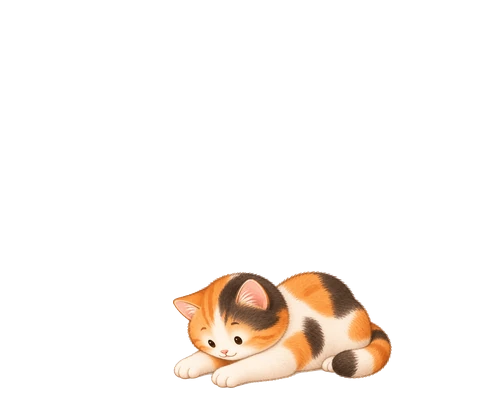
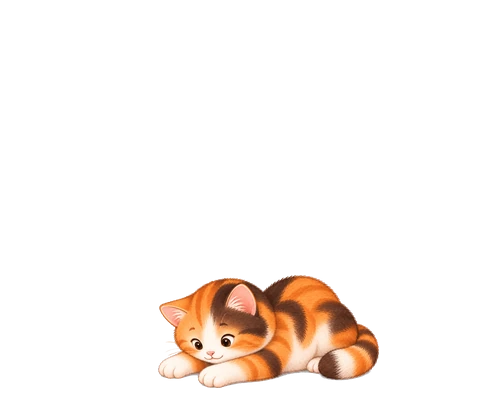
Wire in Zayit the tuxedo cat, refresh lie-pose art for six cats
Zayit gets a CATS entry and selfie-pose count now that her 8-pose set
and 2 polaroid selfies are processed. dvash/kokhav/rimon/sheleg/shoko/
tapuz get updated lie-pose art from new raw drops. Kafe's selfie art
landed too but she has no cat-pose art yet, so she's not CATS-wired.

Claude-Session: https://claude.ai/code/session_01E7v64VRdhvH8oCgXhRmXMK

Changed region(s): [[0.3125, 0.66, 0.8125, 0.99]]

diff --git a/index.html b/index.html
@@ -547,6 +547,7 @@
     shoko:  { tr: 'Shoko', en: 'chocolate milk', rarity: .9, likes: { ball: 3, box: 2 }, gift: [2, 3] },
     rimon:  { tr: 'Rimon', en: 'pomegranate', rarity: .5, likes: { yarn: 2, basket: 2 }, gift: [3, 5] },
     kokhav: { tr: 'Kokhav', en: 'star', rarity: .25, likes: { tent: 4 }, gift: [5, 8] },
+    zayit:  { tr: 'Zayit', en: 'olive', rarity: .85, likes: { basket: 3, ball: 2 }, gift: [1, 3] },
     // only-gated rare cats: just one pose of art so far (sit), so `only` keeps them off every other
     // item instead of getting the 0.4 default-like chance at e.g. cushion's sleep pose. See pickCat().
     zohar:  { tr: 'Zohar', en: 'light', rarity: .15, likes: { lantern: 5 }, only: ['lantern'], gift: [5, 9] },
@@ -624,7 +625,7 @@
   };
   // How many selfie poses each trippable cat has art for (raw/polaroids/cat-<cat><n>.png -> process_art.py).
   // A trip photo picks one of these at random (see randomPose) so the book doesn't look monotonous.
-  const SELFIE_POSES = { tapuz: 3, pilpel: 2, sheleg: 2, dvash: 2, shoko: 2, rimon: 2, kokhav: 2 };
+  const SELFIE_POSES = { tapuz: 3, pilpel: 2, sheleg: 2, dvash: 2, shoko: 2, rimon: 2, kokhav: 2, zayit: 2 };
   const randomPose = (catId) => 1 + Math.floor(Math.random() * (SELFIE_POSES[catId] || 1));
   // Stamps: a second, smaller day-trip collectible -- one per destination (not per cat), see
   // state.stamps. Every trip home still guarantees its polaroid; on top of that there's a
